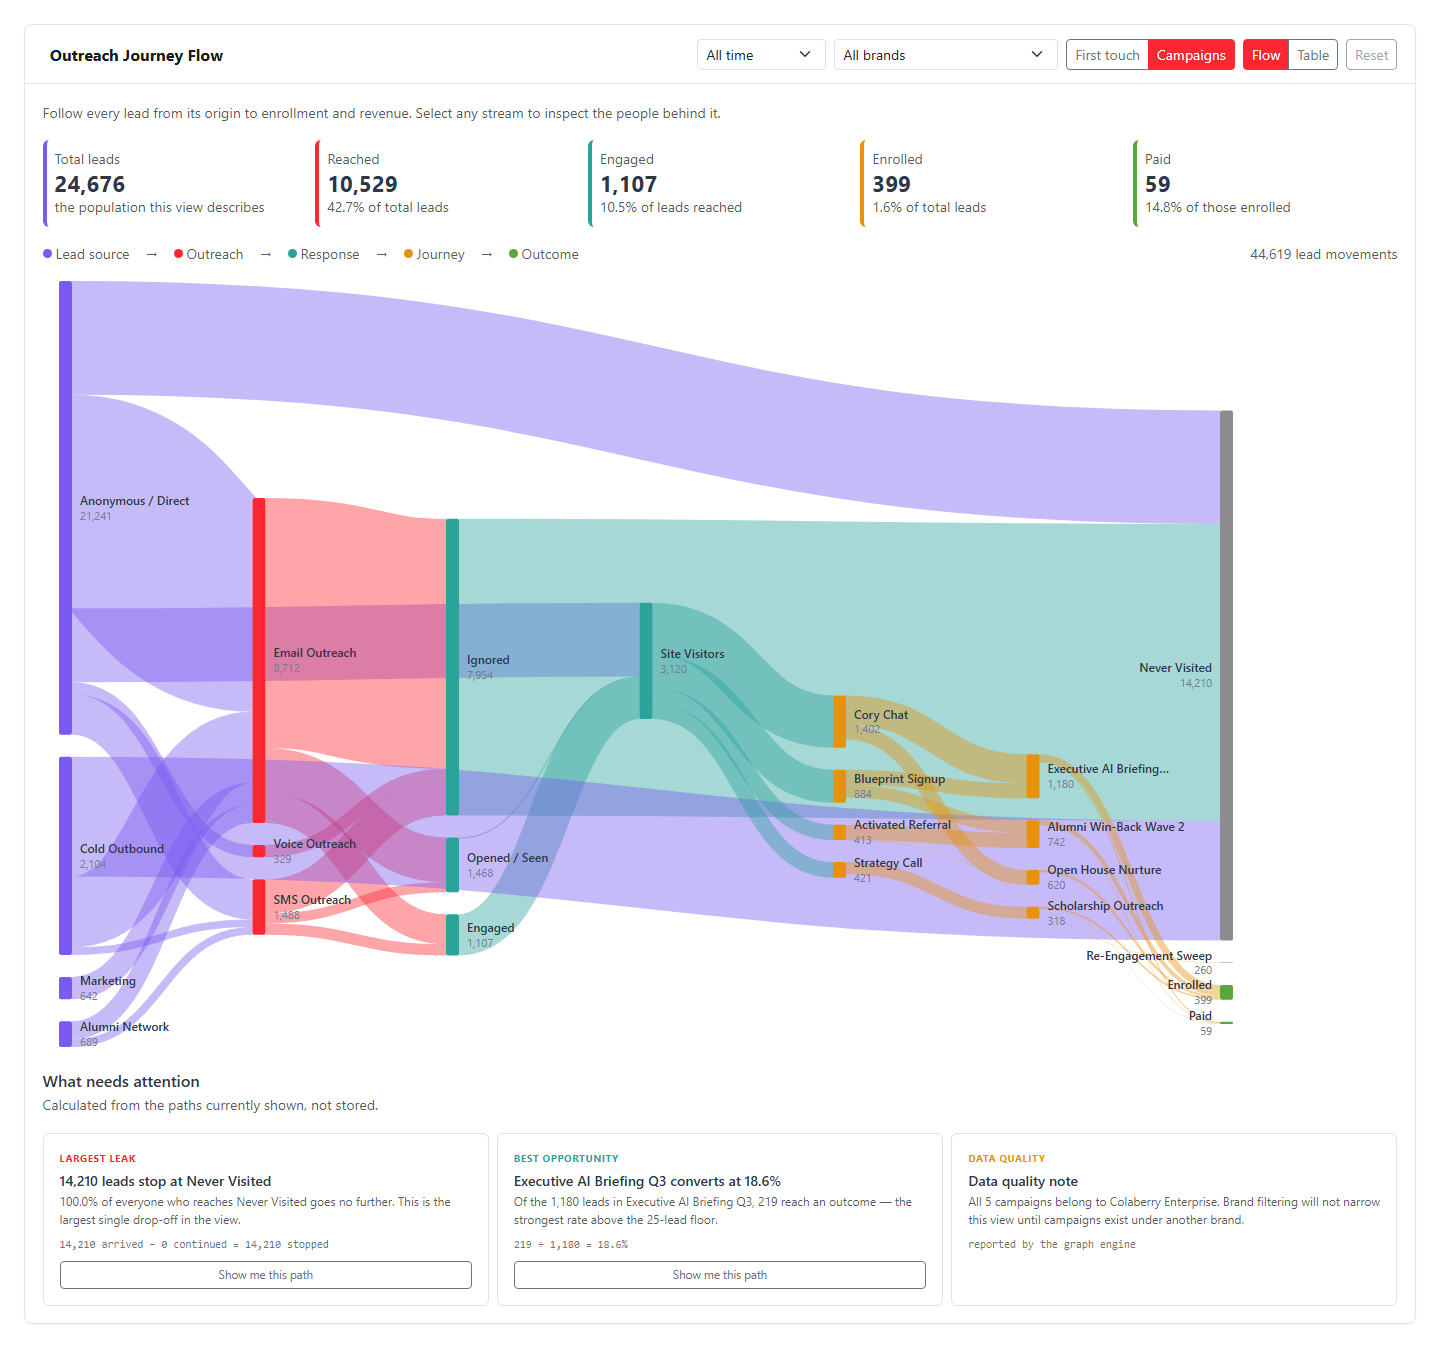
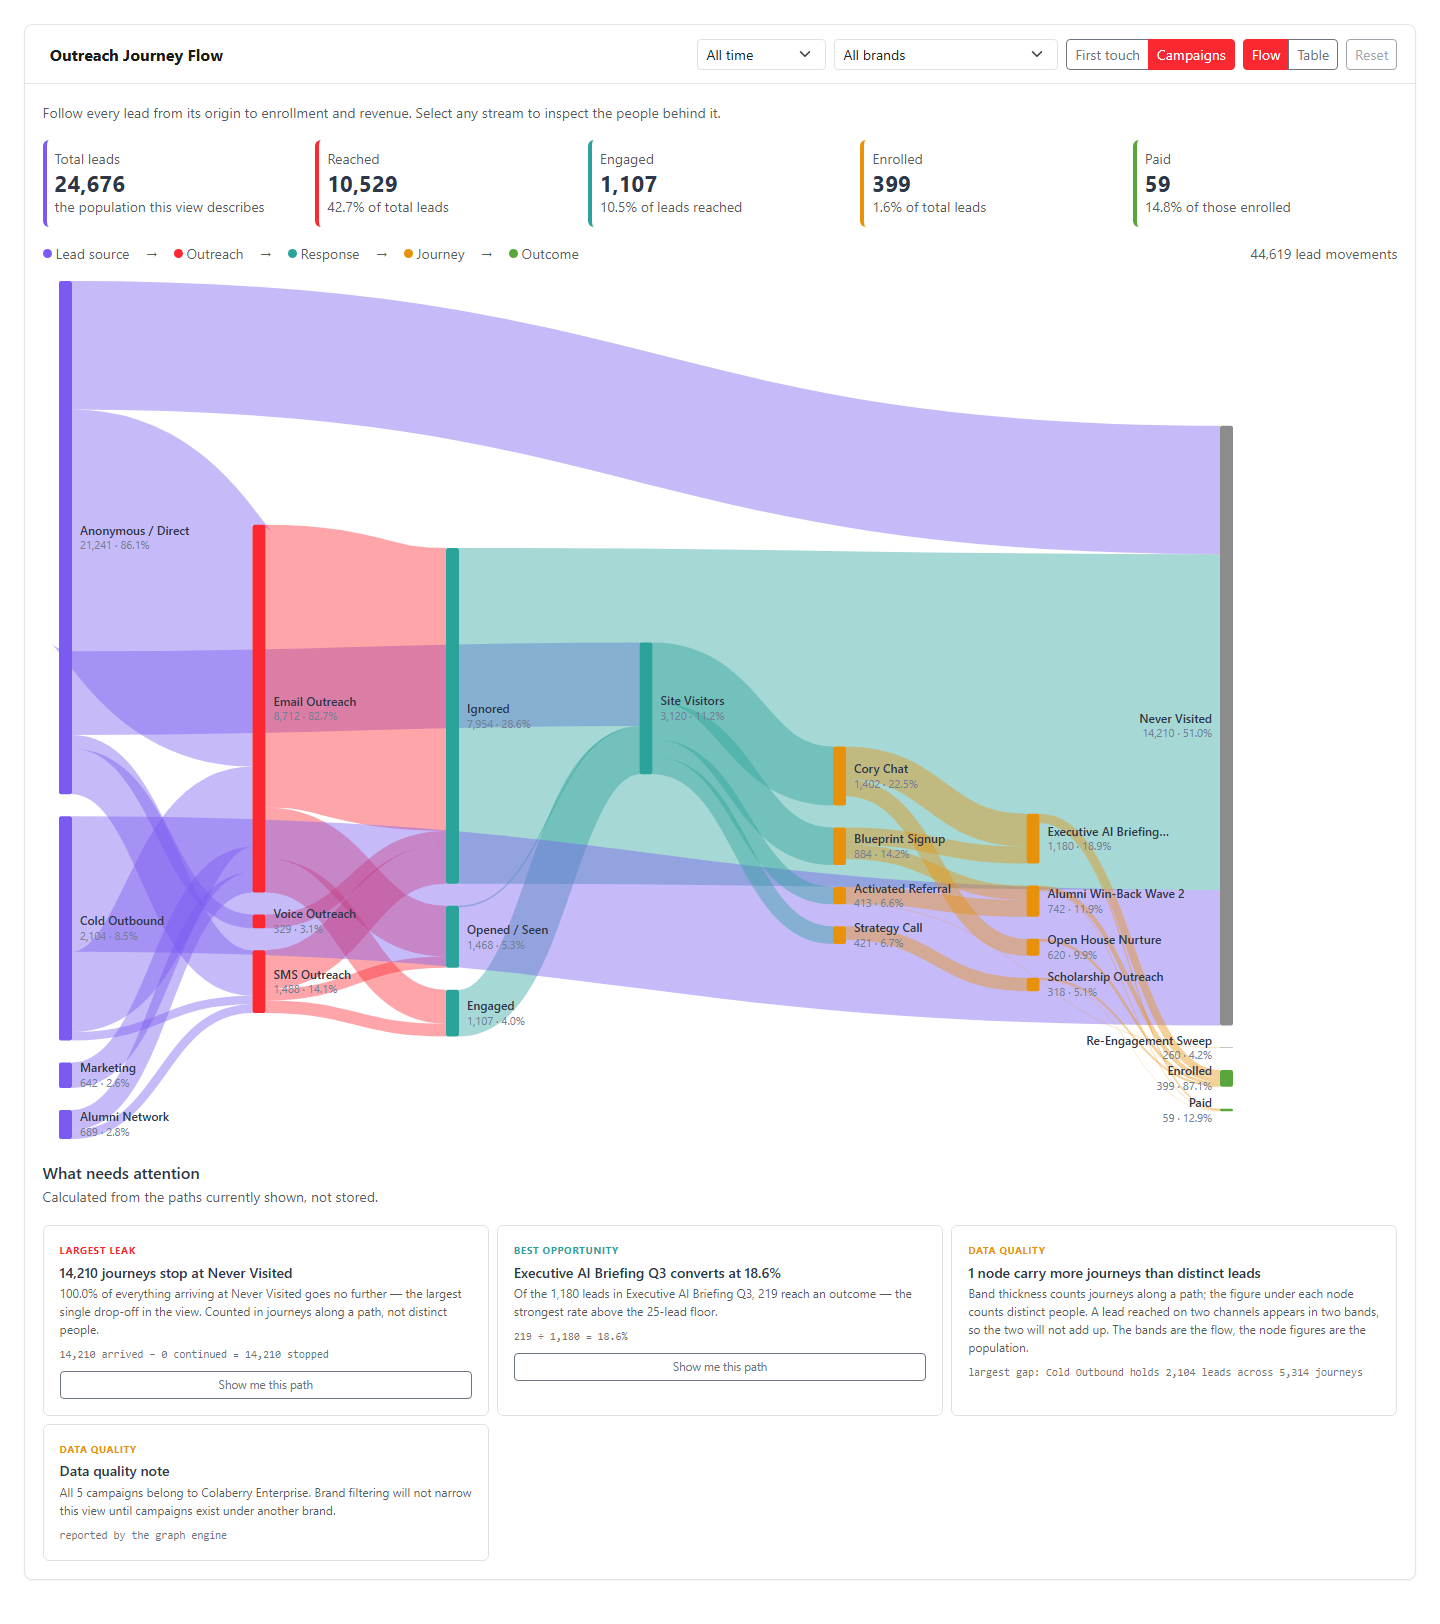
Journey Sankey: scope the visitor count to the time window, and show percentages
Both reported by Ali against the deployed page.

SITE VISITORS. "How can you have 2180 site visitors coming from 20 people." A real
defect, and a pre-existing one - the force graph had it too, it only became visible
once a Sankey drew the two numbers next to each other.

getCampaignGraphData filtered the lead paths by the selected window but counted
visitors with a bare Visitor.count():

  leadPaths        -> filtered by cutoff     55 leads in the last 7 days
  Visitor.count()  -> no filter whatsoever   2,180 visitors, all time

The Site Visitors node adds anonymous visitors to the lead-linked ones, so it
reported that all-time figure verbatim inside a one-week funnel. The cutoff is now
resolved before the queries and applied to both. visitorCountOptions() is exported
so the rule is testable without a database.

Site Visitors can still legitimately exceed the lead count, because it deliberately
counts anonymous visitors who never became leads. That was invisible and made the
node look like it was inventing people, so the tooltip now says so; the number was
already in the payload as metrics.visits_generated.

PERCENTAGES. Each node label now reads "21,241 · 86.1%" - its share of its OWN
COLUMN, not of total leads. Site Visitors counts non-leads, so against a total-leads
denominator it would read "545%", which is worse than showing nothing. A column is a
set of genuine alternatives that partition their stage, so a share of it is always
[…]

diff --git a/backend/src/services/reporting/__tests__/campaignGraphTimeWindow.test.ts b/backend/src/services/reporting/__tests__/campaignGraphTimeWindow.test.ts
@@ -1,0 +1,78 @@
+/**
+ * Regression for the "2,180 Site Visitors from 20 people" defect.
+ *
+ * Reported from live production on 2026-09-08: `/admin/campaigns` filtered to the
+ * last 7 days showed 55 total leads and, in the same picture, 2,180 Site Visitors.
+ *
+ * Cause: `getCampaignGraphData` filtered `leadPaths` by the time window but counted
+ * visitors with a bare `Visitor.count()`. The visitor figure was therefore the
+ * all-time total no matter which window was selected, and the Site Visitors node —
+ * which adds anonymous visitors to the lead-linked ones — reported it verbatim.
+ *
+ * The force graph had the same defect. It only became visible when a Sankey drew
+ * the two numbers side by side, which is a reasonable argument for the chart.
+ *
+ * Models are mocked: CI runs with no DATABASE_URL, and this is a test about a rule,
+ * not about the database.
+ */
+
+jest.mock('sequelize', () => {
+  const actual = jest.requireActual('sequelize');
+  return actual;
+});
+
+import { Op } from 'sequelize';
+import { getTimeWindowCutoff, visitorCountOptions } from '../campaignGraphService';
+
+describe('getTimeWindowCutoff', () => {
+  it('resolves every window the UI is allowed to offer', () => {
+    for (const w of ['24h', '3d', '7d', '30d']) {
+      expect(getTimeWindowCutoff(w)).toBeInstanceOf(Date);
+    }
+  });
+
+  it('returns null for all-time and for anything it does not implement', () => {
+    expect(getTimeWindowCutoff('all')).toBeNull();
+    // The reason the selector must never offer '90d': it silently means all time.
+    expect(getTimeWindowCutoff('90d')).toBeNull();
+    expect(getTimeWindowCutoff('')).toBeNull();
+  });
+
+  it('places the cutoff in the past, by the requested distance', () => {
+    const now = Date.now();
+    const sevenDays = getTimeWindowCutoff('7d')!;
+    const oneDay = getTimeWindowCutoff('24h')!;
+    expect(sevenDays.getTime()).toBeLessThan(now);
+    expect(sevenDays.getTime()).toBeLessThan(oneDay.getTime());
+    // ~7 days, allowing a second of clock drift during the test.
+    expect(now - sevenDays.getTime()).toBeGreaterThan(7 * 24 * 3600_000 - 1000);
+    expect(now - sevenDays.getTime()).toBeLessThan(7 * 24 * 3600_000 + 1000);
+  });
+});
+
+describe('visitorCountOptions — visitors must honour the same window as leads', () => {
+  it('counts every visitor when no window is applied', () => {
+    expect(visitorCountOptions(null)).toBeUndefined();
+  });
+
+  it('scopes the count to the window when one is applied', () => {
+    const cutoff = new Date('2026-09-01T00:00:00Z');
+    const opts = visitorCountOptions(cutoff)!;
+    expect(opts).toBeDefined();
+    expect(opts.where.first_seen_at[Op.gte]).toBe(cutoff);
+  });
+
+  it('filters on first_seen_at, the column that says when a visitor arrived', () => {
+    const opts = visitorCountOptions(new Date())!;
+    expect(Object.keys(opts.where)).toEqual(['first_seen_at']);
+  });
+
+  it('produces a scoped count for every window the UI offers', () => {
+    for (const w of ['24h', '3d', '7d', '30d']) {
+      const cutoff = getTimeWindowCutoff(w);
+      expect(visitorCountOptions(cutoff)).toBeDefined();
+    }
+    // ...and an unscoped one only for all-time.
+    expect(visitorCountOptions(getTimeWindowCutoff('all'))).toBeUndefined();
+  });
+});

diff --git a/frontend/src/components/admin/campaigns/journey/__tests__/campaignSankeyAdapter.test.ts b/frontend/src/components/admin/campaigns/journey/__tests__/campaignSankeyAdapter.test.ts
@@ -329,6 +329,73 @@ describe('buildSankeyView — hostile and edge-case input', () => {
   });
 });
 
+describe('stageShare — the percentage shown under each node', () => {
+  it('gives each node its share of its own column', () => {
+    const data = graph({
+      nodes: [
+        node('src_a', 'source', 'A', 75),
+        node('src_b', 'source', 'B', 25),
+        node('outreach_email', 'outreach', 'Email', 100),
+      ],
+      edges: [edge('src_a', 'outreach_email', 75), edge('src_b', 'outreach_email', 25)],
+    });
+    const view = buildSankeyView(data);
+    const by = Object.fromEntries(view.nodes.map((n) => [n.id, n.stageShare]));
+    expect(by.src_a).toBeCloseTo(75, 5);
+    expect(by.src_b).toBeCloseTo(25, 5);
+    expect(by.outreach_email).toBeCloseTo(100, 5);
+  });
+
+  it('sums to 100 within every column', () => {
+    const view = buildSankeyView(realisticGraph(4), { maxCampaigns: 99, minCampaignShare: 0 });
+    const totals = new Map<string, number>();
+    for (const n of view.nodes) {
+      totals.set(n.stage, (totals.get(n.stage) ?? 0) + (n.stageShare ?? 0));
+    }
+    for (const [, sum] of totals) expect(sum).toBeCloseTo(100, 4);
+  });
+
+  it('never exceeds 100 even when a node dwarfs the whole lead population', () => {
+    // Site Visitors counts anonymous visitors who never became leads, so against a
+    // total-leads denominator it would read in the hundreds of percent. Against its
+    // own column it cannot.
+    const data = graph({
+      nodes: [
+        node('src_anonymous', 'source', 'Anonymous / Direct', 55),
+        node('visitor_site', 'visitor', 'Site Visitors', 2180),
+        node('visitor_never', 'visitor', 'Never Visited', 44),
+      ],
+      edges: [
+        edge('src_anonymous', 'visitor_site', 20),
+        edge('src_anonymous', 'visitor_never', 35),
+      ],
+    });
+    const view = buildSankeyView(data);
+    for (const n of view.nodes) {
+      if (n.stageShare !== null) expect(n.stageShare).toBeLessThanOrEqual(100);
+    }
+  });
+
+  it('reports null rather than 0% for a column with no population', () => {
+    const data = graph({
+      nodes: [
+        node('src_a', 'source', 'A', 0),
+        node('outreach_email', 'outreach', 'Email', 5),
+      ],
+      edges: [edge('src_a', 'outreach_email', 5)],
+    });
+    const view = buildSankeyView(data);
+    expect(view.nodes.find((n) => n.id === 'src_a')!.stageShare).toBeNull();
+  });
+
+  it('counts an aggregate as one member of its column', () => {
+    const view = buildSankeyView(realisticGraph(10), { maxCampaigns: 2, minCampaignShare: 0 });
+    const journey = view.nodes.filter((n) => n.stage === 'journey');
+    const sum = journey.reduce((s, n) => s + (n.stageShare ?? 0), 0);
+    expect(sum).toBeCloseTo(100, 4);
+  });
+});
+
 describe('buildPathRows — the table is the diagram', () => {
   it('emits one row per drawn band with the same totals', () => {
     const view = buildSankeyView(realisticGraph(3));

diff --git a/frontend/src/components/admin/campaigns/journey/campaignSankeyAdapter.ts b/frontend/src/components/admin/campaigns/journey/campaignSankeyAdapter.ts
@@ -86,6 +86,27 @@ export interface SankeyViewNode {
    * label promising twelve. Expand the bucket instead.
    */
   drillable: boolean;
+  /**
+   * This node's share of its OWN COLUMN, 0-100, or null when the column is empty.
+   *
+   * Share of the column rather than of total leads, and the reason is Site
+   * Visitors. That node counts anonymous visitors who never became leads, so it is
+   * routinely larger than the entire lead population — against a total-leads
+   * denominator it would read "545%", which is worse than showing nothing. Every
+   * column, by contrast, is a set of alternatives that genuinely partition their
+   * stage, so a share of it is always between 0 and 100 and always answers the
+   * question a reader is actually asking: how much of this stage is this?
+   */
+  stageShare: number | null;
+  /**
+   * Visitors counted at this node who never became leads.
+   *
+   * Only Site Visitors has one. It is the answer to "how can 20 people produce
+   * 2,180 site visitors": most of them were never leads at all. The number exists
+   * in the payload as `metrics.visits_generated` and was previously invisible, so
+   * the node looked like it was inventing people.
+   */
+  anonymousCount?: number;
 }
 
 export interface SankeyViewLink {
@@ -333,6 +354,10 @@ export function buildSankeyView(
       memberIds: [n.id],
       aggregate: false,
       drillable: true,
+      stageShare: null,
+      ...(n.type === 'visitor' && typeof n.metrics?.visits_generated === 'number'
+        ? { anonymousCount: n.metrics.visits_generated }
+        : {}),
     });
   }
 
@@ -356,6 +381,7 @@ export function buildSankeyView(
       memberIds: [...memberIds],
       aggregate: true,
       drillable: false,
+      stageShare: null,
     });
   }
 
@@ -387,11 +413,24 @@ export function buildSankeyView(
       memberIds: [id],
       aggregate: false,
       drillable: false,
+      stageShare: null,
     });
   }
 
   const droppedOrphanNodes =
     graphNodes.filter((n) => !remap.has(n.id) && !touched.has(n.id)).length;
+
+  // ── 4b. Each node's share of its own column ──────────────────────────────
+  // Computed after every node exists, including aggregates and placeholders, so
+  // the shares within a column always sum to 100 rather than to whatever survived.
+  const stageTotals = new Map<JourneyStage, number>();
+  for (const n of viewNodes) {
+    stageTotals.set(n.stage, (stageTotals.get(n.stage) ?? 0) + n.value);
+  }
+  for (const n of viewNodes) {
+    const total = stageTotals.get(n.stage) ?? 0;
+    n.stageShare = total > 0 ? (n.value / total) * 100 : null;
+  }
 
   // ── 5. Index for recharts ────────────────────────────────────────────────
   const links: SankeyViewLink[] = [];

diff --git a/backend/src/services/reporting/campaignGraphService.ts b/backend/src/services/reporting/campaignGraphService.ts
@@ -203,7 +203,19 @@ function sortedPercentile(sorted: number[], p: number): number {
   return sorted[lo] + (sorted[hi] - sorted[lo]) * (idx - lo);
 }
 
-function getTimeWindowCutoff(window: string): Date | null {
+/**
+ * Scope the anonymous-visitor count to the same window as the lead paths.
+ *
+ * Exported so the rule can be tested without a database. The bug it guards against
+ * shipped for months: an unscoped `Visitor.count()` beside a filtered lead set
+ * reported 2,180 Site Visitors inside a 7-day view holding 55 leads.
+ */
+export function visitorCountOptions(cutoff: Date | null): { where: any } | undefined {
+  if (!cutoff) return undefined;
+  return { where: { first_seen_at: { [Op.gte]: cutoff } } };
+}
+
+export function getTimeWindowCutoff(window: string): Date | null {
   const now = new Date();
   switch (window) {
     case '24h': return new Date(now.getTime() - 24 * 3600_000);
@@ -1354,17 +1366,31 @@ export async function getCampaignGraphData(
     return graphCache.data;
   }
 
-  // Fetch lead paths and total anonymous visitor count in parallel
+  /**
+   * The cutoff is resolved BEFORE the queries, because the visitor count has to
+   * honour it too.
+   *
+   * It previously did not. `Visitor.count()` counted every visitor ever recorded
+   * while `leadPaths` was filtered to the window, so a 7-day view reported 55 leads
+   * beside 2,180 Site Visitors — the all-time total, sitting inside a one-week
+   * funnel. Reported from production on 2026-09-08: "how can you have 2180 site
+   * visitors coming from 20 people". The force graph had the same defect; drawing
+   * the two numbers next to each other is what made it visible.
+   */
+  const cutoff = timeWindow && timeWindow !== 'all' ? getTimeWindowCutoff(timeWindow) : null;
+
   const [leadPaths_raw, totalAnonymousVisitors] = await Promise.all([
     buildLeadPaths(),
-    Visitor.count().catch(() => 0),
+    // Narrowed explicitly: passing options widens Sequelize's return type to
+    // `number | GroupedCountResultItem[]`, and only a grouped count yields the
+    // array form. This call never groups, so anything but a number is a zero.
+    Visitor.count(visitorCountOptions(cutoff) as any)
+      .then((n: unknown) => (typeof n === 'number' ? n : 0))
+      .catch(() => 0),
   ]);
 
   let leadPaths = leadPaths_raw;
-  if (timeWindow && timeWindow !== 'all') {
-    const cutoff = getTimeWindowCutoff(timeWindow);
-    if (cutoff) leadPaths = leadPaths.filter(lp => lp.created_at >= cutoff);
-  }
+  if (cutoff) leadPaths = leadPaths.filter(lp => lp.created_at >= cutoff);
 
   const data = await buildGraphFromPaths(leadPaths, totalAnonymousVisitors);
   data.time_window = cacheKey;

diff --git a/frontend/src/components/admin/campaigns/journey/JourneySankeyChart.tsx b/frontend/src/components/admin/campaigns/journey/JourneySankeyChart.tsx
@@ -209,9 +209,11 @@ export default function JourneySankeyChart({
             style={{ cursor: 'pointer' }}
             role="button"
             tabIndex={0}
-            aria-label={`${node.stageLabel}: ${node.fullName}, ${node.value.toLocaleString()} leads. ${
-              node.drillable ? 'Activate to inspect these leads.' : 'Grouped — expand to inspect.'
-            }`}
+            aria-label={`${node.stageLabel}: ${node.fullName}, ${node.value.toLocaleString()} leads${
+              node.stageShare === null
+                ? ''
+                : `, ${node.stageShare.toFixed(1)} percent of ${node.stageLabel}`
+            }. ${node.drillable ? 'Activate to inspect these leads.' : 'Grouped — expand to inspect.'}`}
             onClick={() => onSelect({ kind: 'node', nodeId: node.id })}
             onKeyDown={(e: React.KeyboardEvent) => {
               if (e.key === 'Enter' || e.key === ' ') {
@@ -221,8 +223,15 @@ export default function JourneySankeyChart({
             }}
             onMouseMove={(e: React.MouseEvent) =>
               showTip(e, node.fullName, [
-                `${node.stageLabel} · ${node.value.toLocaleString()} leads`,
+                `${node.value.toLocaleString()} leads${
+                  node.stageShare === null ? '' : ` · ${node.stageShare.toFixed(1)}% of ${node.stageLabel}`
+                }`,
                 ...(node.brandName ? [`Brand: ${node.brandName}`] : []),
+                ...(node.anonymousCount
+                  ? [
+                      `Includes ${node.anonymousCount.toLocaleString()} anonymous visitors who never became leads`,
+                    ]
+                  : []),
                 node.drillable ? 'Click to inspect these leads' : 'Grouped — switch view to expand',
               ])
             }
@@ -251,7 +260,9 @@ export default function JourneySankeyChart({
             opacity={dimmed ? 0.35 : 1}
             pointerEvents="none"
           >
-            {node.value.toLocaleString()}
+            {node.stageShare === null
+              ? node.value.toLocaleString()
+              : `${node.value.toLocaleString()} · ${node.stageShare.toFixed(1)}%`}
           </text>
         </Layer>
       );

diff --git a/frontend/src/components/admin/campaigns/journey/journeyMetrics.ts b/frontend/src/components/admin/campaigns/journey/journeyMetrics.ts
@@ -214,7 +214,10 @@ export function findFlowMismatch(view: SankeyViewModel): Insight | null {
   if (!worst) return null;
   return {
     kind: 'quality',
-    title: `${affected} node${affected === 1 ? '' : 's'} carry more journeys than distinct leads`,
+    title:
+      affected === 1
+        ? '1 node carries more journeys than distinct leads'
+        : `${affected} nodes carry more journeys than distinct leads`,
     detail:
       'Band thickness counts journeys along a path; the figure under each node counts ' +
       'distinct people. A lead reached on two channels appears in two bands, so the two ' +

diff --git a/docs/sessions/CC-20260907-b3f7.md b/docs/sessions/CC-20260907-b3f7.md
@@ -93,6 +93,32 @@ so the only route to those columns is through the controller that validates them
   - Verification: live capture of `GET /api/admin/campaign-intelligence/graph` — 35 nodes, 91 edges, 24,679 leads. Adapter now draws 58,755 of 58,755 journeys. 87 frontend tests pass.
   - Notes: an authenticated capture of the NEW UI running in production is still not possible, because the branch is not deployed. What was verified is the live CONTRACT and the component's behaviour against live DATA.
 
+- [x] Fixed "2,180 Site Visitors from 20 people", and added percentages to the chart
+  - Date: 2026-09-08
+  - Session: CC-20260907-b3f7
+  - What changed: the anonymous-visitor count is now scoped to the selected time window; every node label carries its share of its own column.
+  - Verification: 7 new backend tests, 5 new frontend tests, 92 frontend + 37 backend tests pass, both `tsc --noEmit` clean.
+  - Notes: Ali spotted this on the deployed page. The visitor bug is PRE-EXISTING backend behaviour, not introduced here — the force graph had it too.
+
+**The defect.** `getCampaignGraphData` filtered `leadPaths` by the time window but
+counted visitors with a bare `Visitor.count()`. That figure was the all-time total
+whatever window was selected, and the Site Visitors node adds anonymous visitors to
+lead-linked ones, so a 7-day view reported 55 leads beside 2,180 Site Visitors. The
+cutoff is now resolved before the queries and applied to both. `visitorCountOptions`
+is exported purely so the rule is testable without a database.
+
+Worth saying plainly: **the old force graph had exactly the same bug.** It only
+became visible when a Sankey drew the two numbers next to each other — which is a
+fair argument for the chart.
+
+**Percentages: share of the COLUMN, not of total leads.** Site Visitors counts
+anonymous visitors who never became leads, so against a total-leads denominator it
+reads in the hundreds of percent — worse than showing nothing. Each column is a set
+of alternatives that genuinely partition its stage, so a share of it is always 0-100
+and answers the question actually being asked: how much of this stage is this? Shown
+as `21,241 · 86.1%` under each label, with the stage named in the tooltip and the
+screen-reader label.
+
 ### What the live data proved about brands
 
 Straight answer to the original question, from production:
